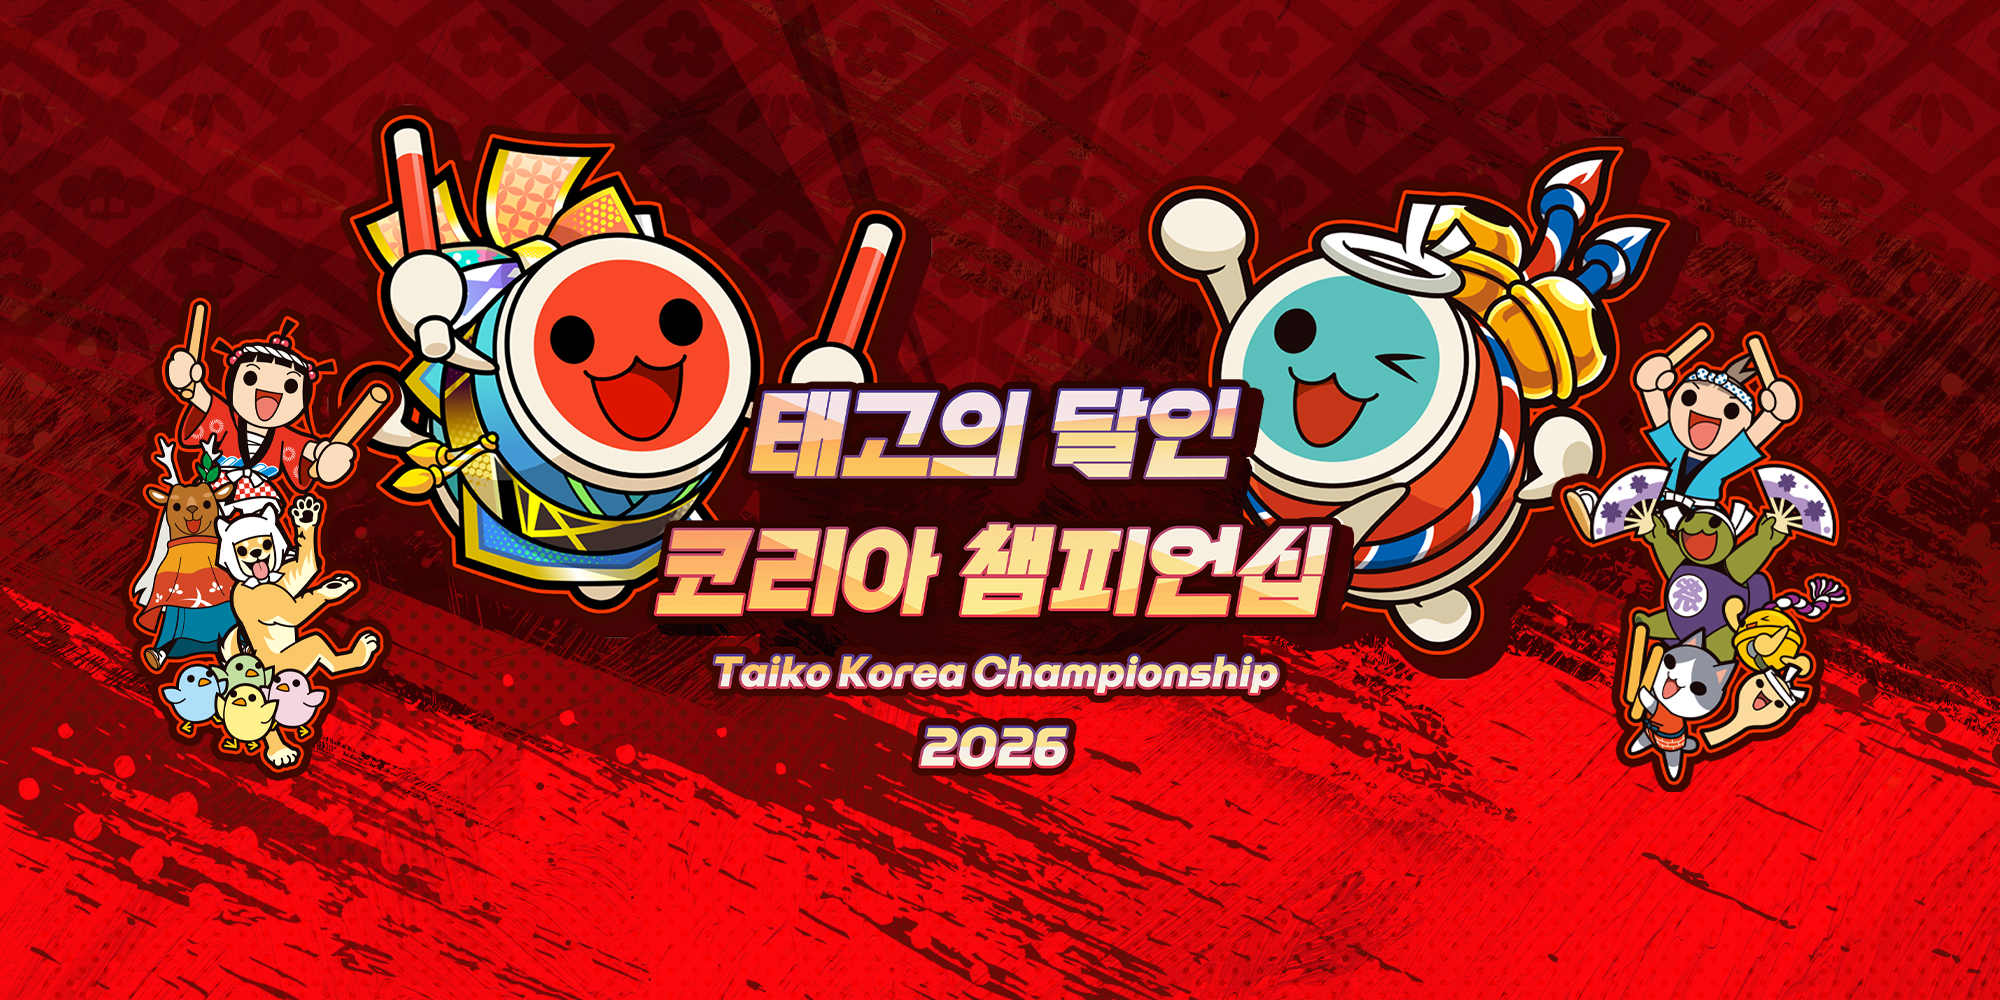
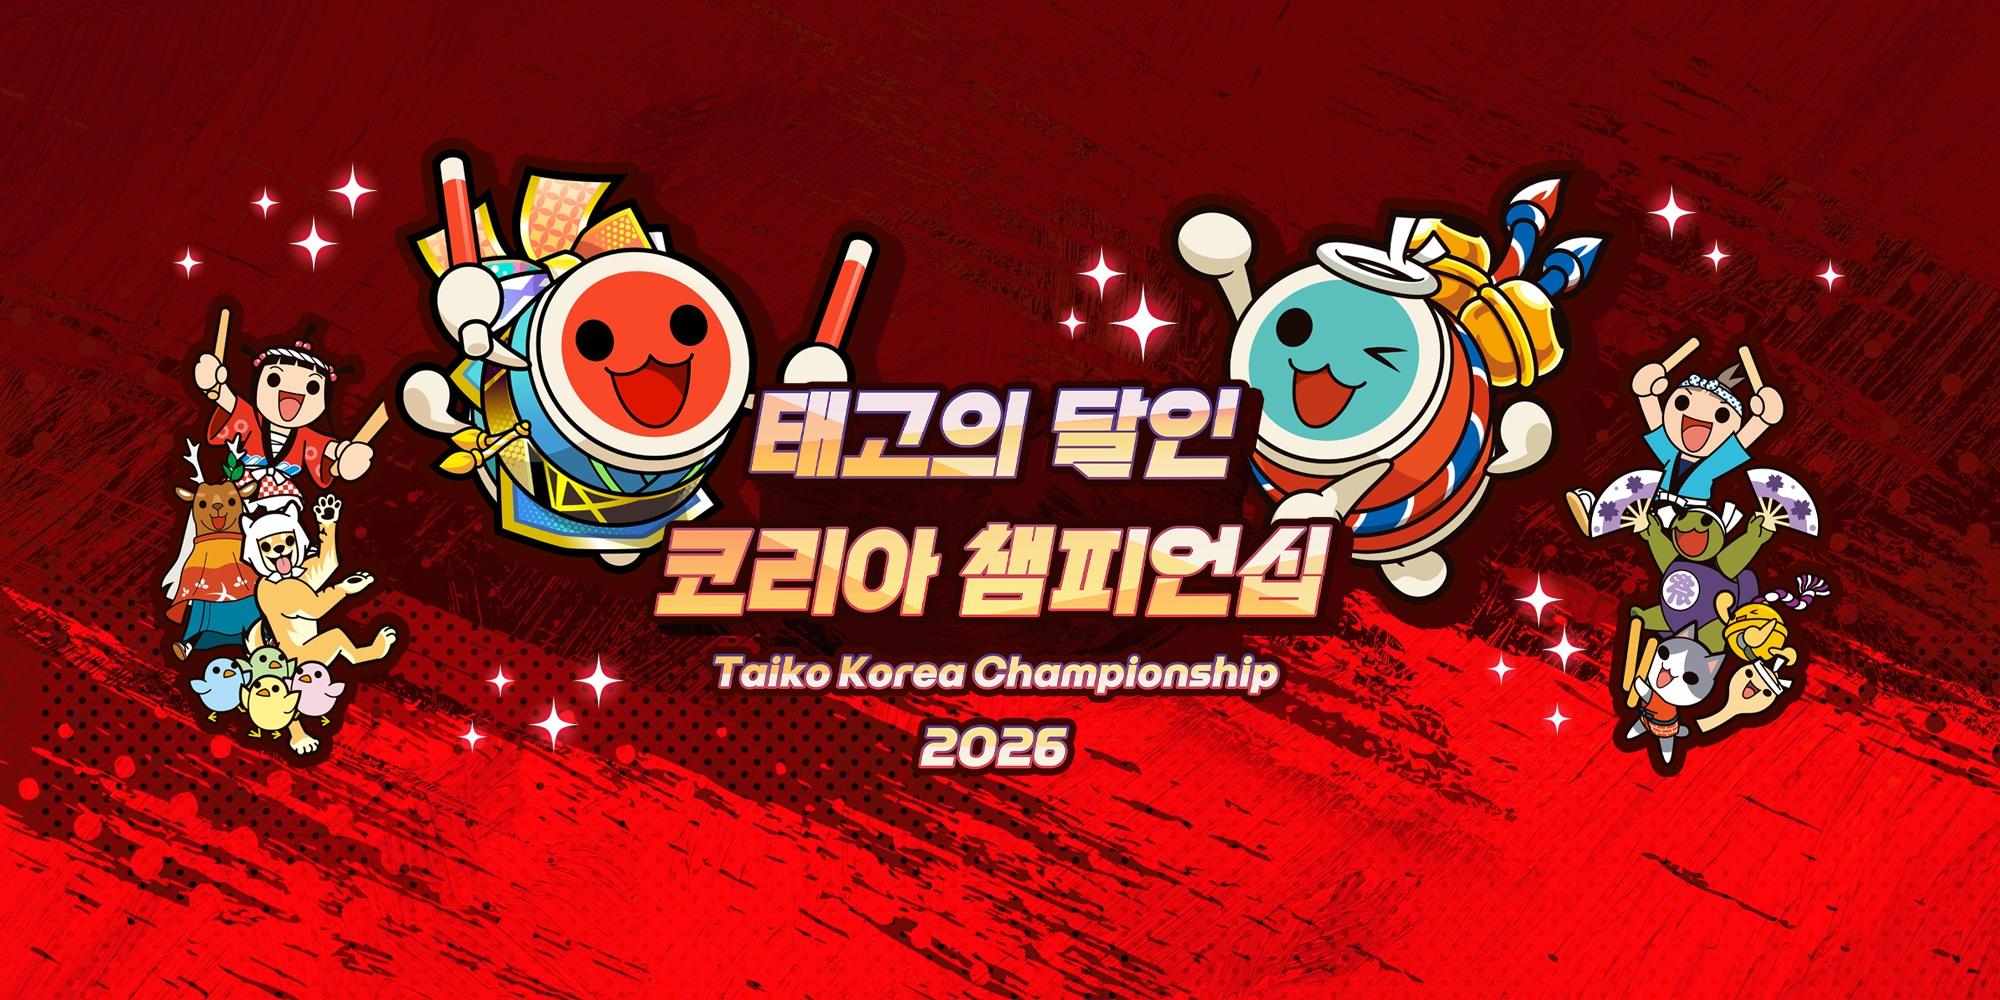
홈페이지 히어로

diff --git a/src/styles/index.css b/src/styles/index.css
@@ -869,6 +869,25 @@
   }
 }
 
+@keyframes hero-stars-enter {
+  from {
+    opacity: 0;
+  }
+  to {
+    opacity: 1;
+  }
+}
+
+@keyframes hero-stars-color {
+  0%,
+  100% {
+    filter: sepia(0) saturate(1);
+  }
+  50% {
+    filter: sepia(0.25) saturate(1.4);
+  }
+}
+
 @keyframes hero-flash {
   0% {
     opacity: 0;
@@ -937,6 +956,15 @@
 .hero-anim .hero-layer-title {
   animation: hero-title-slam 1s cubic-bezier(0.22, 1, 0.36, 1) 1.5s both;
 }
+
+.hero-layer-top {
+  opacity: 0;
+}
+.hero-anim .hero-layer-top {
+  animation:
+    hero-stars-enter 1.2s ease-out 2.0s forwards,
+    hero-stars-color 5s ease-in-out 3.2s infinite;
+}
 /* Don & Katsu – overlap with text edges */
 .hero-main-image {
   transform: translateY(8px) scale(1.08);
@@ -980,6 +1008,21 @@
 @media (min-width: 1024px) {
   .hero-title-image {
     transform: translateY(12px) scale(1.03);
+  }
+}
+
+.hero-top-image {
+  transform: translateY(8px) scale(1.03);
+  transform-origin: center center;
+}
+@media (min-width: 768px) {
+  .hero-top-image {
+    transform: translateY(10px) scale(1.01);
+  }
+}
+@media (min-width: 1024px) {
+  .hero-top-image {
+    transform: translateY(12px) scale(1.04);
   }
 }
 
@@ -1092,6 +1135,7 @@
   .hero-layer-main,
   .hero-layer-side,
   .hero-layer-title,
+  .hero-layer-top,
   .hero-grad-top,
   .hero-grad-bottom,
   .hero-cta {

diff --git a/src/components/tkc/home/home-hero-section.tsx b/src/components/tkc/home/home-hero-section.tsx
@@ -6,12 +6,13 @@ import { useCanHover } from '@/components/tkc/home/use-can-hover'
 const HERO_ASSETS = {
   heroBg: '/branding/v2/hero-bg.webp',
   // Asset file names are historical; keep mapping by visual role.
-  heroMain: '/branding/v2/hero-title.webp',
+  heroMain: '/branding/v2/logo-3.png',
   heroSide: '/branding/v2/hero-main.webp',
-  heroTitle: '/branding/v2/hero-side.webp',
+  heroTitle: '/branding/v2/logo-4.png',
+  heroTop: '/branding/v2/logo-5.png',
 }
 
-const HERO_LAYER_COUNT = 4
+const HERO_LAYER_COUNT = 5
 
 export function HomeHeroSection() {
   const canHover = useCanHover()
@@ -124,6 +125,18 @@ export function HomeHeroSection() {
             src={HERO_ASSETS.heroTitle}
             alt=''
             className='hero-title-image h-full w-full object-contain'
+            loading='eager'
+            draggable={false}
+            onLoad={markHeroLayerReady}
+            onError={markHeroLayerReady}
+          />
+        </div>
+
+        <div className='hero-layer hero-layer-top absolute inset-0 z-[4] flex items-center justify-center'>
+          <img
+            src={HERO_ASSETS.heroTop}
+            alt=''
+            className='hero-top-image h-full w-full object-contain'
             loading='eager'
             draggable={false}
             onLoad={markHeroLayerReady}

diff --git a/src/components/tkc/layout.tsx b/src/components/tkc/layout.tsx
@@ -69,7 +69,7 @@ export function PageHero({
     <section className='-mx-4 -mt-20 overflow-hidden md:-mx-6 md:-mt-24'>
       <div className='relative h-[320px] sm:h-[380px] md:h-[520px] lg:h-[560px]'>
         <img
-          src='/branding/hero.webp'
+          src='/branding/hero.jpg'
           alt=''
           className='absolute inset-0 h-full w-full object-cover object-[center_top] md:object-center'
           loading='eager'
